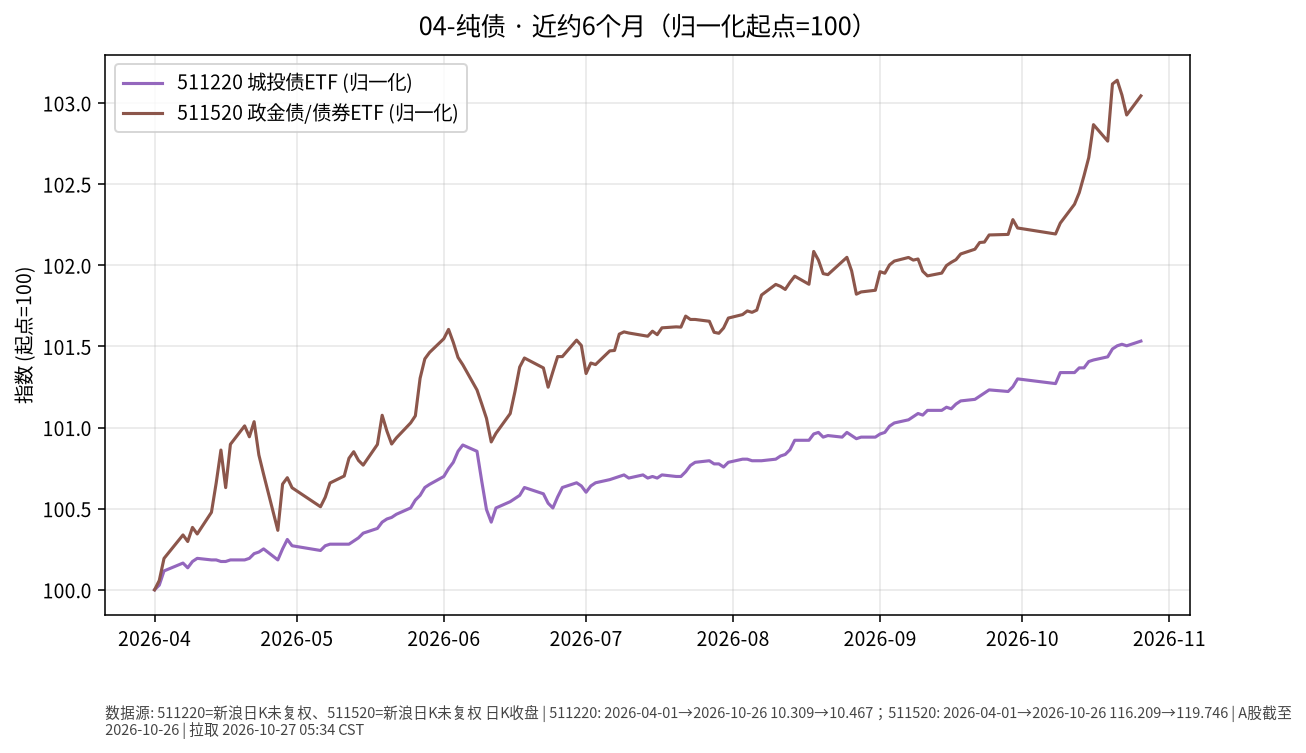
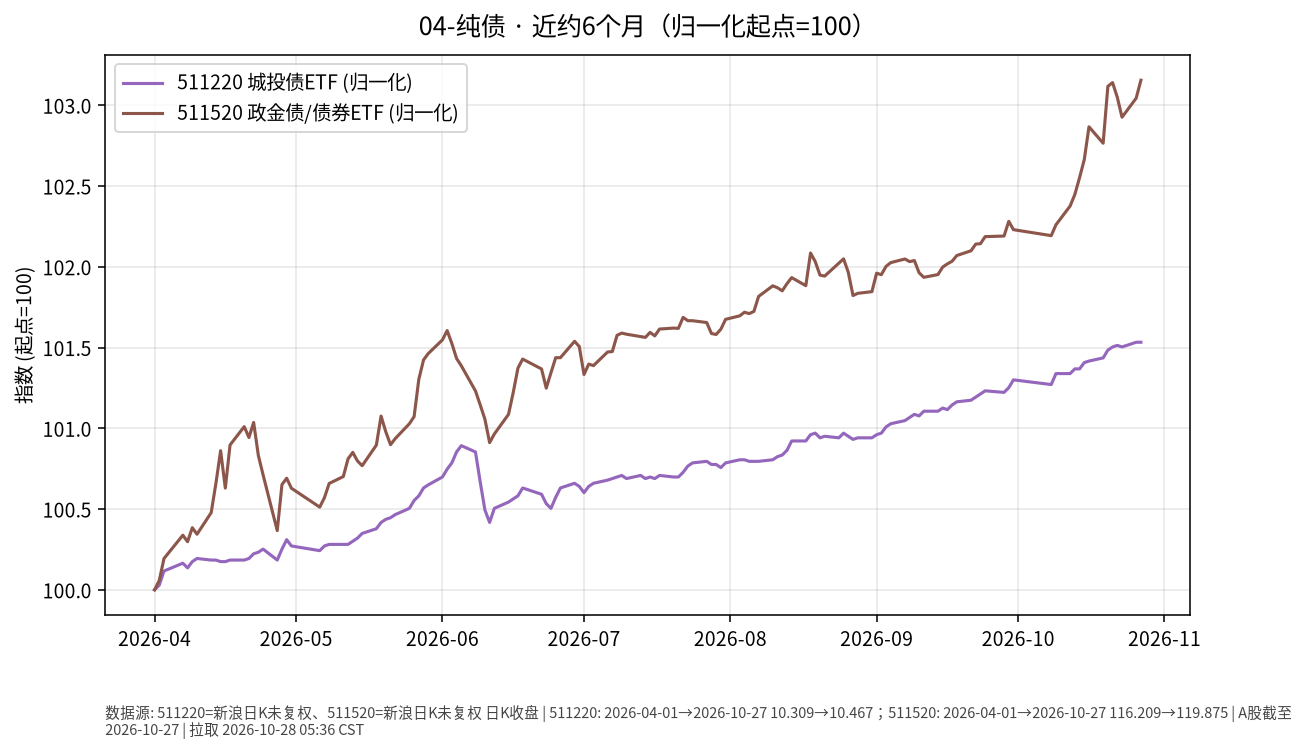
docs: 五门类投资日报 2026-10-28

diff --git a/01-黄金/日报/2026-10-28.md b/01-黄金/日报/2026-10-28.md
@@ -1,0 +1,30 @@
+# 黄金 · 日报 2026-10-28
+
+## 市场状态
+- **报告日**：2026-10-28（周三，Asia/Shanghai 盘前例程）
+- **数据截止交易日**：美股/GLD **2026-10-27**；A 股/沪金 **2026-10-27**（周二收盘；周三盘前取上一交易日）。A 股交易日历显示 **2026-10-28 为交易日**，本页数字不含周三盘中。
+- GLD 收盘 **372.28**，较前一交易日 **+1.21%**（akshare 日 K 至 10-26 + 新浪 hq `gb_gld` 补 10-27）。
+- 沪金 AU9999：**2026-10-27** 收盘 **860.31** 元/克（**-0.13%**）；黄金 ETF 518880 收 **8.167**（**-0.22%**）。
+
+## 关键数据
+| 标的 | 最近收盘日 | 收盘 | 日涨跌 | 近约6个月（归一起点日） | 区间涨跌 |
+|------|------------|------|--------|-------------------------|----------|
+| GLD | 2026-10-27 | 372.28 | +1.21% | 2026-04-27→2026-10-27 | -13.40% |
+| 518880 黄金ETF | 2026-10-27 | 8.167 | -0.22% | 2026-04-27→2026-10-27 | -17.48% |
+| AU9999（沪金） | 2026-10-27 | 860.31 | -0.13% | 2026-04-27→2026-10-27 | -17.06% |
+
+![近6个月走势](./charts/01-黄金-6m.png)
+
+## 简要解读
+- 美元计价黄金 ETF（GLD）在 **2026-10-27** 明显回升（约 **+1.21%**），境内 518880、沪金 AU9999 同日仍略下行（约 **-0.22%** / **-0.13%**）；近约半年归一后约 **-13.40%～-17.48%**。
+- 价格变动同时受美元、实际利率与风险情绪影响；本页只描述已发生报价，不推断下一步方向。
+
+## 关注点与风险
+- 汇率：境内投资者若以人民币计量，还需叠加美元兑人民币变动，账面涨跌可能与 GLD 美元涨跌不一致。
+- 波动：黄金阶段性回撤后波动仍可能放大；ETF 净值/溢价、交易时段与现货不完全同步。
+- 数据完整性：GLD 历史主序列来自 akshare（yfinance/Yahoo 当日限流），**2026-10-27** 收盘用新浪 hq `gb_gld` 补齐；518880 新浪日 K；SGE Au99.99 完整。图中三条归一曲线均已叠加。
+
+## 来源与时间
+- GLD：akshare `stock_us_daily`（至 2026-10-26）+ 新浪 hq `gb_gld`（2026-10-27 收 372.28）；拉取约 2026-10-28 05:37 Asia/Shanghai
+- 518880：新浪日 K；AU9999：上海金交所 Dailyhq
+- 图表：Python matplotlib，收盘价归一到起点=100（图窗自 2026-04-01 起）

diff --git a/03-国债/日报/2026-10-28.md b/03-国债/日报/2026-10-28.md
@@ -1,0 +1,29 @@
+# 国债 · 日报 2026-10-28
+
+## 市场状态
+- **报告日**：2026-10-28；**数据截止交易日**：**2026-10-27**。
+- 国债 ETF 511010 收 **141.203**，日涨跌 **+0.023%**（近乎持平）。
+- 中债国债收益率曲线 **10 年期** 2026-10-27 报 **1.6258%**，较上一交易日（2026-10-26 的 1.6376%）约 **-1.18 BP**（中国债券信息网 pbc/more 与 akshare `bond_zh_us_rate` 一致）。
+- **提醒**：利率上行（曲线抬升）通常对应既有国债价格承压；图中 ETF 净值涨 ≠ 收益率涨。**利率↑线↑≠债价涨**。
+
+## 关键数据
+| 标的 | 收盘日 | 收盘/收益率 | 日变化 | 约6个月 | 区间 |
+|------|--------|-------------|--------|---------|------|
+| 511010 | 2026-10-27 | 141.203 | +0.023% | 2026-04-27→2026-10-27 | +0.36% |
+| 中债10Y国债收益率 | 2026-10-27 | 1.6258% | 约-1.18 BP | 2026-04-01→2026-10-27 | 约 -19.9 BP（akshare 序列） |
+
+![近6个月走势](./charts/03-国债-6m.png)
+
+## 简要解读
+- 511010 近半年归一涨跌约 **+0.36%**，路径相对平缓；2026-10-27 微升，与 10Y 收益率较前一日下行约 1.18 BP 的方向一致（利率↓有利于存量债价）。
+- 久期越长，对收益率变化越敏感；本页只记录 ETF 收盘与曲线点位。图中右轴叠加中国10Y收益率日序。
+
+## 关注点与风险
+- 利率风险：收益率上行 → 债券市价下行。
+- 通胀预期、货币政策与供需（供给放量等）都会改变曲线形态。
+- 收益率序列来自公开曲线汇总，与 ETF 交易价时间戳不完全同步。
+
+## 来源与时间
+- 511010：新浪日 K；截止 2026-10-27
+- 收益率：yield.chinabond.com.cn pbc/more（2026-10-27，10Y=1.6258%）；日序 akshare `bond_zh_us_rate`
+- 图表：matplotlib，ETF 收盘归一=100，中国10Y 收益率右轴

diff --git a/05-高股息/日报/2026-10-28.md b/05-高股息/日报/2026-10-28.md
@@ -1,0 +1,30 @@
+# 高股息 · 日报 2026-10-28
+
+## 市场状态
+- **报告日**：2026-10-28；**数据截止交易日**：**2026-10-27**。
+- 红利 ETF 510880 收 **3.397**（**+1.19%**）。
+- 招商银行 600036 收 **42.99**（**+1.15%**）；长江电力 600900 收 **29.83**（**-0.10%**）。
+- 红利 ETF 与招行上行、长电微跌；分红与价格涨跌是两回事（股息率随股价变动）。
+- **价格口径**：本页序列为交易所日 K **未复权**收盘（新浪）。
+
+## 关键数据
+| 标的 | 收盘日 | 收盘 | 日涨跌 | 约6个月 | 区间涨跌 |
+|------|--------|------|--------|---------|----------|
+| 510880 红利ETF | 2026-10-27 | 3.397 | +1.19% | 2026-04-27→2026-10-27 | +3.73% |
+| 600036 招商银行 | 2026-10-27 | 42.99 | +1.15% | 2026-04-27→2026-10-27 | +9.17% |
+| 600900 长江电力 | 2026-10-27 | 29.83 | -0.10% | 2026-04-27→2026-10-27 | +11.89% |
+
+![近6个月走势](./charts/05-高股息-6m.png)
+
+## 简要解读
+- 近半年归一（未复权）：510880 约 **+3.73%**，招行约 **+9.17%**，长电约 **+11.89%**（个股路径强于宽基红利 ETF，不代表未来）。
+- 2026-10-27 红利与招行上行、长电微跌，属已发生的价格事实。
+
+## 关注点与风险
+- 银行与公用事业对利率、监管、来水/电价等基本面敏感；高股息不保证本金稳定。
+- 510880 成分与权重定期调整；个股与 ETF 走势可显著偏离。
+- 未复权序列在除权除息日会出现跳空，与前复权路径不一致属正常。
+
+## 来源与时间
+- 510880 / 600036 / 600900：新浪 CN_MarketData K 线（未复权）
+- 截止 2026-10-27；图表 matplotlib，起点=100

diff --git a/02-中短债/日报/2026-10-28.md b/02-中短债/日报/2026-10-28.md
@@ -1,0 +1,28 @@
+# 中短债 · 日报 2026-10-28
+
+## 市场状态
+- **报告日**：2026-10-28；**A 股数据截止交易日**：**2026-10-27**（周三盘前，取周二收盘）。交易日历：**2026-10-28 为开市日**。
+- 短融 ETF 511360 收 **114.109**（日涨跌 **+0.002%**）。
+- 159649（国开债 ETF 华安）收 **110.778**（日涨跌 **+0.010%**）。
+- 短端品种单日变动极小；仅作路径对照，非交易建议。
+
+## 关键数据
+| 标的 | 收盘日 | 收盘 | 日涨跌 | 约6个月区间 | 区间涨跌 |
+|------|--------|------|--------|-------------|----------|
+| 511360 短融ETF海富通 | 2026-10-27 | 114.109 | +0.002% | 2026-04-27→2026-10-27 | +0.64% |
+| 159649 国开债ETF华安 | 2026-10-27 | 110.778 | +0.010% | 2026-04-27→2026-10-27 | +1.10% |
+
+![近6个月走势](./charts/02-中短债-6m.png)
+
+## 简要解读
+- 两条曲线近半年均呈缓慢抬升（归一后约 **+0.64%** / **+1.10%**），单日波动接近于零，符合短久期利率品种特征。
+- 159649 跟踪国开债，久期与信用暴露通常高于纯短融；与 511360 并排只为对照路径，不暗示优劣。
+
+## 关注点与风险
+- 利率上行时净值可能回撤（即使票息仍为正）。
+- ETF 折溢价、流动性与跟踪误差；节假日后跳空可能出现。
+- 杠杆与加久期会放大波动——本报告不讨论、不鼓励此类操作。
+
+## 来源与时间
+- 新浪 CN_MarketData 日 K，截止 2026-10-27
+- 图表：matplotlib，起点归一=100；拉取约 2026-10-28 05:37 Asia/Shanghai

diff --git a/04-纯债/日报/2026-10-28.md b/04-纯债/日报/2026-10-28.md
@@ -1,0 +1,28 @@
+# 纯债 · 日报 2026-10-28
+
+## 市场状态
+- **报告日**：2026-10-28；**数据截止交易日**：**2026-10-27**。
+- 城投债 ETF 511220 收 **10.467**（**0.00%**，持平）。
+- 政金债/债券 ETF 511520 收 **119.875**（**+0.108%**）。
+- 511220 单日不动、511520 小幅上行；近半年仍呈缓慢抬升。
+
+## 关键数据
+| 标的 | 收盘日 | 收盘 | 日涨跌 | 约6个月区间 | 区间涨跌 |
+|------|--------|------|--------|-------------|----------|
+| 511220 城投债ETF海富通 | 2026-10-27 | 10.467 | 0.00% | 2026-04-27→2026-10-27 | +1.35% |
+| 511520 政金债ETF富国 | 2026-10-27 | 119.875 | +0.108% | 2026-04-27→2026-10-27 | +2.78% |
+
+![近6个月走势](./charts/04-纯债-6m.png)
+
+## 简要解读
+- 近半年归一：511220 约 **+1.35%**，511520 约 **+2.78%**；2026-10-27 前者持平、后者小幅上行。
+- 城投债含信用利差暴露，政金债更偏利率；并排对照路径，不评价孰优。
+
+## 关注点与风险
+- 信用利差扩张时，城投/信用类净值回撤可能大于利率债。
+- 利率上行同样压制久期更长的品种。
+- ETF 折溢价与跟踪误差；本报告不讨论杠杆与下沉信用。
+
+## 来源与时间
+- 新浪 CN_MarketData 日 K，截止 2026-10-27
+- 图表：matplotlib，起点归一=100

diff --git a/notes/invest-knowledge-100/今日一点/2026-10-28-day03.md b/notes/invest-knowledge-100/今日一点/2026-10-28-day03.md
@@ -1,0 +1,5 @@
+# 今日一点 · Day 3/100 · 《收益从哪来》
+
+**结论：** 投资收益大体来自三块——票息/股息、价差、再投资；债底仓主要靠前两块，路径相对说得清。
+
+**票息/股息**是持有期间按约给付的现金流，不靠天天盯盘。**价差**是买卖价之差，利率或情绪一变就会晃。**再投资**是把收到的利息再放回去时的环境——利率下行时同样票息再投可能更难。风险厌恶者先把可预见的票息路径放进债底仓（中短债/国债/纯债）；股票卫星若以后才划一小笔，股息与价差会一起吵——那是后面的课，今天只记收益从哪来，不谈买卖。

diff --git a/notes/invest-knowledge-100/progress.md b/notes/invest-knowledge-100/progress.md
@@ -1,4 +1,4 @@
-next_day: 3
+next_day: 4
 started: 2026-10-26
-last_completed_day: 2
-last_date: 2026-10-27
+last_completed_day: 3
+last_date: 2026-10-28
